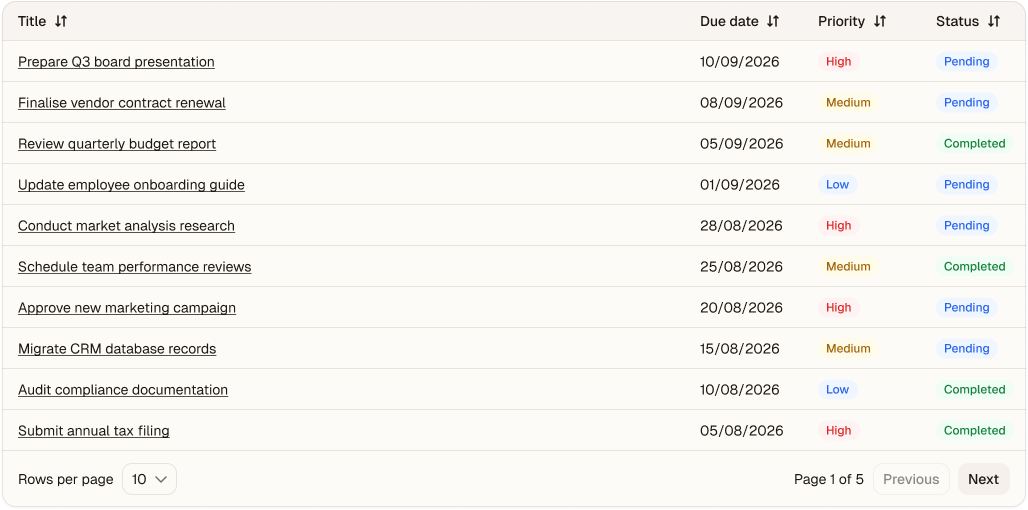
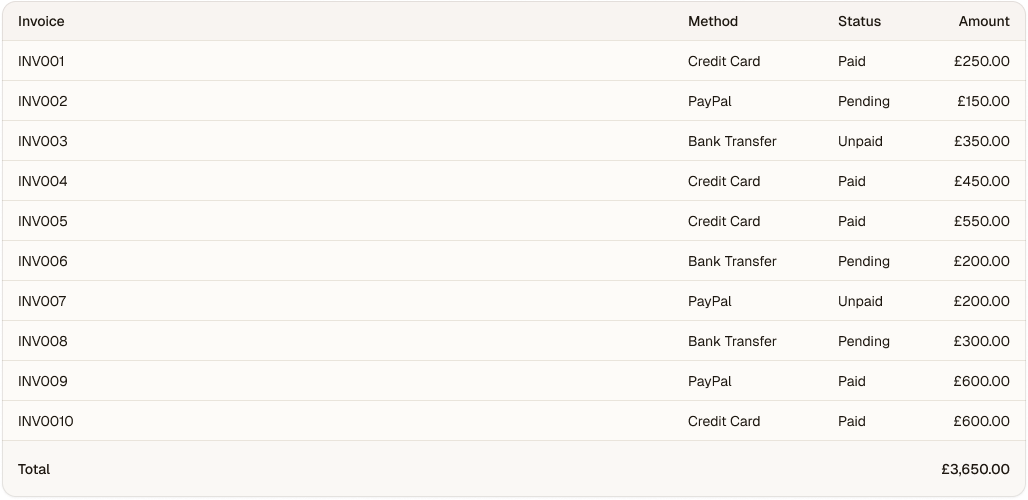
Add data table pattern and update table images in TactIX

diff --git a/tactix/patterns/tables.md b/tactix/patterns/tables.md
@@ -28,6 +28,14 @@ Keep the structure simple, use clear column headings and avoid adding controls t
 
 [View standard table](../examples/tables/table-standard.png)
 
+### Data table
+
+Use a data table for larger or more complex datasets that need richer interaction, such as sorting, filtering, pagination, selection or row actions.
+
+Use a standard table when users only need to scan and compare a smaller, simpler set of information.
+
+[View data table](../examples/tables/table-data-table.png)
+
 ### Tables with varying widths
 
 Choose a table width based on the amount and complexity of the data rather than applying the same width to every table.
